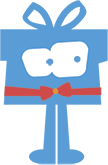
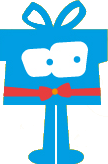
replace images and move login function

diff --git a/resources/assets/site/sass/pages/logado.scss b/resources/assets/site/sass/pages/logado.scss
@@ -174,16 +174,10 @@ input {
 		position:relative;
 		z-index: 1;
 		fieldset{
-			padding-top: 100px;
-			// margin-bottom: 30px;
 			&.financeiro{
 				padding-top:0;
 			}
-			// span{
-			// 	color: #e6c93b;
-			// 	font-family: 'HelveticaNeueStd';
-			// 	font-size: 17px;
-			// }
+
 			label{
 				font-family: 'HelveticaNeueStd';
 				font-size: 17px;
@@ -220,11 +214,19 @@ input {
 	margin-top: 10px;
 }
 
-.nova-senha-email {
-	font-family: 'HelveticaNeueStd';
-	font-size: 17px;
-	color: #bebfc2;
-	margin: 5px 0 10px;
+.editar-dados {
+	padding-top: 142px;
+}
+
+.nova-senha {
+	padding-top: 142px;
+
+	&-email {
+		font-family: 'HelveticaNeueStd';
+		font-size: 17px;
+		color: #bebfc2;
+		margin: 5px 0 10px;
+	}
 }
 
 @media only screen and (min-width : 481px) {

diff --git a/routes/web.php b/routes/web.php
@@ -11,16 +11,18 @@
 |
 */
 Route::any('/', ['as' => 'home','uses' => 'HomeController@index']);
-Route::resource('cadastro', 'RegisterController');
+
 Route::resource('cadastro/dados-bancarios', 'BankController');
-Route::post('cadastro/login', ['as' => 'cadastro.login','uses' => 'RegisterController@login']);
+Route::resource('cadastro', 'RegisterController');
 
 Route::group(['prefix' => 'usuario'], function() {
     Route::get('editar-dados', ['as' => 'usuario.editar-dados','uses' => 'HomeController@editar_dados']);
     Route::resource('nova-senha', 'PasswordController');
     Route::put('nova-senha', ['as' => 'usuario.nova-senha.update','uses' => 'HomeController@nova_senha']);
-    Route::get('nova-senha/recuperar', ['as' => 'usuario.nova-senha.recuperar','uses' => 'HomeController@nova_senha_recuperar']);
+    Route::get('nova-senha/recuperar', ['as' => 'usuario.nova-senha.recuperar','uses' => 'PasswordController@recuperar']);
     Route::get('transferencia', ['as' => 'usuario.transferencia','uses' => 'HomeController@transferencia']);
+    Route::get('logout', ['as' => 'usuario.logout','uses' => 'RegisterController@logout']);
+    Route::post('login', ['as' => 'usuario.login','uses' => 'RegisterController@login']);
 
     Route::group(['prefix' => 'meus-aniversarios'], function() {
         Route::get('/', ['as' => 'usuario.meus-aniversarios','uses' => 'HomeController@meus_aniversarios']);

diff --git a/app/Http/Controllers/RegisterController.php b/app/Http/Controllers/RegisterController.php
@@ -14,7 +14,7 @@ class RegisterController extends Controller {
 
 	public function __construct () {
 		$this->middleware(function ($request, $next) {
-			if (!session('client_id') && request()->path() !== '/') {
+			if (!session('client_id') && request()->path() !== '/' && request()->path() !== 'usuario/login') {
 				return redirect()->route('home');
 			}
 
@@ -82,7 +82,7 @@ class RegisterController extends Controller {
 	 */
 	public function show($id)
 	{
-		//
+		var_dump('show', $id);
 	}
 
 	/**
@@ -131,6 +131,7 @@ class RegisterController extends Controller {
 
 	public function login(Request $request) {
 		$client = Clientes::where('email', $request->email)->first();
+
 		if (!$client || !Hash::check($request->senha, $client->senha)) {
 			return redirect('/')->with('status', 'E-mail e/ou senha incorretos!');
 		}
@@ -138,5 +139,11 @@ class RegisterController extends Controller {
 		session(['client_id' => $client->id]);
 
 		return redirect()->route('usuario.meus-aniversarios');
+	}
+
+	public function logout(Request $request) {
+		$request->session()->forget('client_id');
+
+		return redirect()->route('home');
 	}
 }

diff --git a/resources/views/site/inc/header.blade.php b/resources/views/site/inc/header.blade.php
@@ -34,7 +34,7 @@
                             <li><a class="{!! (Route::currentRouteName() == 'usuario.meus-aniversarios') ? 'active': ''!!}" href="{{ route('usuario.meus-aniversarios') }}" alt="">meus aniversários</a></li>
                             <li class="divisor"><a class="{!! (Route::currentRouteName() == 'fitoterapiconatural') ? 'active': ''!!}" href="{!! route('home')!!}" alt="">lista de presentes</a></li>
                             <li><a class="{!! (Route::currentRouteName() == 'usuario.transferencia') ? 'active': ''!!}" href="{{ route('usuario.transferencia') }}" alt="">resgatar valores</a></li>
-                            <li class="logout"><a class="" href="{!! route('home')!!}" alt="">{{ Html::image('assets/site/images/sair.png', '', array('class' => 'img-responsive')) }}</a></li>
+                            <li class="logout"><a href="{{ route('usuario.logout') }}" alt="">{{ Html::image('assets/site/images/sair.png', '', array('class' => 'img-responsive')) }}</a></li>
                         </ul>
                     </nav>
                 </div>

diff --git a/app/Http/Controllers/HomeController.php b/app/Http/Controllers/HomeController.php
@@ -10,7 +10,7 @@ class HomeController extends Controller {
 
 	public function __construct () {
 		$this->middleware(function ($request, $next) {
-			if (!session('client_id') && request()->path() !== '/') {
+			if (!session('client_id') && request()->path() !== '/' && request()->path() !== '/') {
 				return redirect()->route('home');
 			}
 
@@ -23,18 +23,6 @@ class HomeController extends Controller {
 	public function index(Request $request)
 	{
 		return view('site.home');
-	}
-
-	public function nova_senha_recuperar(Request $request) {
-		$client = $this->cliente;
-		$method = $request->method();
-		$view = 'site.inc.usuarios.nova_senha_recuperar';
-		if ($request->ajax()) {
-			return view($view, compact('client'));
-		} else {
-			$titulo = 'Senha';
-			return view('site.usuarios', compact('view', 'titulo', 'client'));
-		}
 	}
 
 	public function transferencia(Request $request)

diff --git a/app/Http/Controllers/PasswordController.php b/app/Http/Controllers/PasswordController.php
@@ -113,14 +113,16 @@ class PasswordController extends Controller {
 		//
 	}
 
-	public function login(Request $request) {
-		$client = Clientes::where('email', $request->email)->first();
-		if (!$client || !Hash::check($request->senha, $client->senha)) {
-			return redirect('/')->with('status', 'E-mail e/ou senha incorretos!');
+	public function recuperar(Request $request)
+	{
+		$client = $this->cliente;
+		$method = $request->method();
+		$view = 'site.inc.usuarios.nova_senha_recuperar';
+		if ($request->ajax()) {
+			return view($view, compact('client'));
+		} else {
+			$titulo = 'Senha';
+			return view('site.usuarios', compact('view', 'titulo', 'client'));
 		}
-
-		session(['client_id' => $client->id]);
-
-		return redirect()->route('usuario.meus-aniversarios');
 	}
 }

diff --git a/resources/views/site/home.blade.php b/resources/views/site/home.blade.php
@@ -235,7 +235,7 @@
 					<div class="clearfix grpelem" id="u9630">
 						<!-- column -->
 						<img class="colelem" id="u9220-4" alt="Entrar:" width="444" height="34" src="{{ asset('assets/home/images/u9220-4.png?crc=247824620') }}"/><!-- rasterized frame -->
-						<form method="post" action="{{ route('cadastro.login') }}" class="clearfix colelem" id="pu9606">
+						<form method="post" action="{{ route('usuario.login') }}" class="clearfix colelem" id="pu9606">
 							@if (session('status'))
 								<div class="form-login-message">
 									{{ session('status') }}

diff --git a/resources/views/site/inc/usuarios/editar_dados.blade.php b/resources/views/site/inc/usuarios/editar_dados.blade.php
@@ -1,6 +1,6 @@
 <form action="{{ route('cadastro.update', $client->id) }}" method="post" class="usuario-form" data-presente="{{ asset('assets/site/images/presentinho_senha.png') }}">
 	<input type="hidden" name="_method" value="put" />
-	<fieldset class="col-md-12">
+	<fieldset class="editar-dados col-md-12">
 		<div class="form-group">
 			<label for="dados-nome">Nome:</label>
 			<input type="text" name="nome" id="dados-nome" class="form-control form-input" value="{{ $client->nome }}">

diff --git a/resources/views/site/inc/usuarios/nova_senha.blade.php b/resources/views/site/inc/usuarios/nova_senha.blade.php
@@ -1,7 +1,7 @@
 <form action="{{ route('nova-senha.update', $client->id) }}" method="post" class="usuario-form password-form" data-presente="{{ asset('assets/site/images/presentinho_senha.png') }}">
 	<input type="hidden" name="_method" value="put" />
 
-	<fieldset class="nova_senha col-md-12">
+	<fieldset class="nova-senha col-md-12">
 		@if (session('errors'))
 			<div class="alert alert-danger">
 				{!! session('errors')->first() !!}
